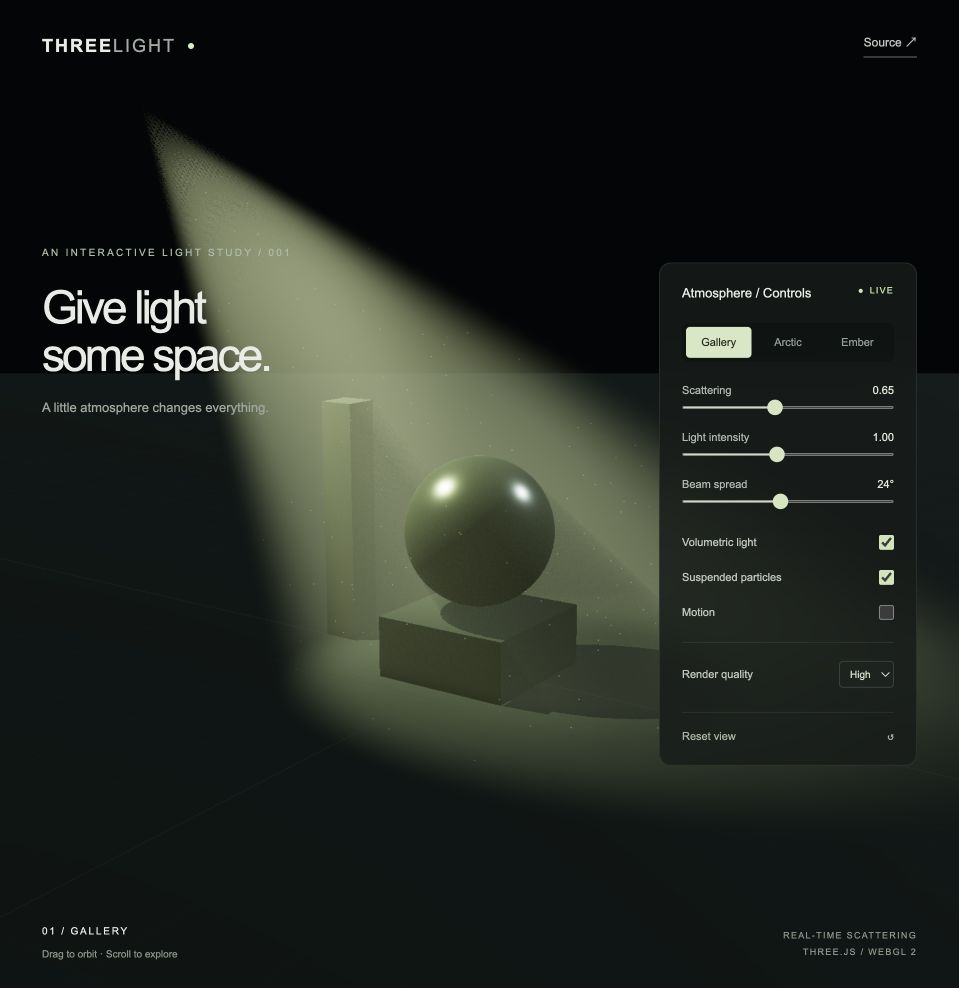
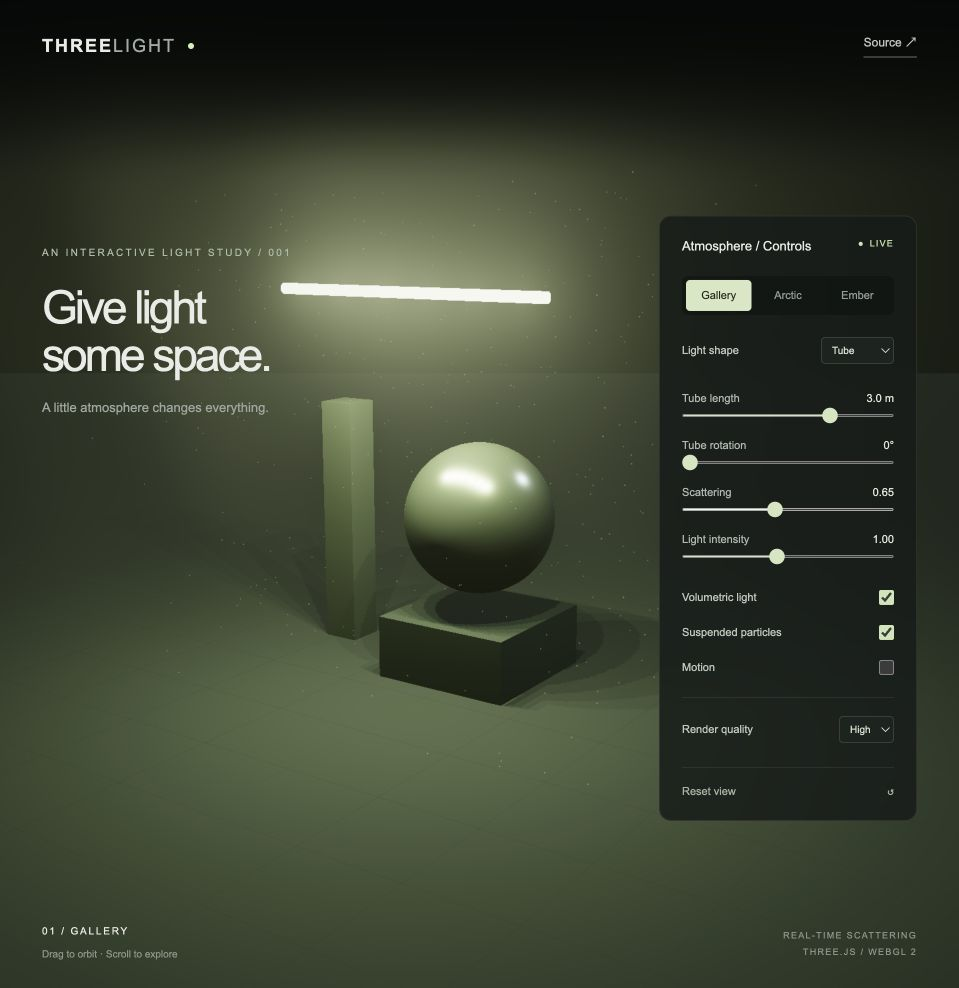
Add adjustable tube emitters with shared surface and volume lighting

diff --git a/src/main.js b/src/main.js
@@ -2,6 +2,12 @@ import * as THREE from "three";
 import { OrbitControls } from "three/addons/controls/OrbitControls.js";
 import { vertexShader, fragmentShader } from "./volume.js";
 import "./style.css";
+import {
+  TUBE_SAMPLES,
+  TUBE_CENTER,
+  sampleTube,
+  emitterGLSL,
+} from "./emitter.js";
 
 const $ = (id) => document.getElementById(id);
 const settings = { density: 0.65, power: 1, spread: 24 };
@@ -100,6 +106,37 @@ function start() {
   spot.shadow.bias = -0.0003;
   spot.shadow.normalBias = 0.025;
   scene.add(spot, spot.target);
+  const tubeLights = Array.from({ length: TUBE_SAMPLES }, () => {
+    const light = new THREE.PointLight(spot.color, 150 / TUBE_SAMPLES, 22, 2);
+    light.castShadow = true;
+    light.shadow.mapSize.set(256, 256);
+    light.shadow.camera.near = 0.1;
+    light.shadow.camera.far = 22;
+    light.shadow.bias = -0.0003;
+    light.shadow.normalBias = 0.025;
+    scene.add(light);
+    return light;
+  });
+  const emitterPositions = tubeLights.map((light) => light.position);
+  const emitterUniforms = {
+    emitterPositions: { value: emitterPositions },
+    tubeMode: { value: true },
+  };
+  const emitterMaterial = new THREE.MeshBasicMaterial({
+    color: spot.color.clone().multiplyScalar(4),
+  });
+  const tubeMesh = new THREE.Mesh(
+    new THREE.CylinderGeometry(0.055, 0.055, 1, 16),
+    emitterMaterial,
+  );
+  tubeMesh.position.fromArray(TUBE_CENTER);
+  scene.add(tubeMesh);
+  const spotMesh = new THREE.Mesh(
+    new THREE.SphereGeometry(0.09, 16, 12),
+    emitterMaterial,
+  );
+  spotMesh.position.copy(spot.position);
+  scene.add(spotMesh);
   const rim = new THREE.DirectionalLight("#c4d4df", 1.7);
   rim.position.set(3, 4, -4);
   scene.add(rim);
@@ -156,6 +193,7 @@ function start() {
     depthWrite: false,
     blending: THREE.AdditiveBlending,
     uniforms: {
+      ...emitterUniforms,
       lightPosition: { value: spot.position },
       lightDirection: { value: new THREE.Vector3() },
       color: { value: spot.color },
@@ -164,7 +202,18 @@ function start() {
       pixelRatio: { value: 1 },
     },
     vertexShader: `uniform float time,pixelRatio; varying vec3 world; void main(){vec3 p=position;p.y=mod(p.y+time*.065,5.);world=(modelMatrix*vec4(p,1.)).xyz;vec4 mv=viewMatrix*vec4(world,1.);gl_Position=projectionMatrix*mv;gl_PointSize=clamp(17./-mv.z,1.,3.)*pixelRatio;}`,
-    fragmentShader: `uniform vec3 lightPosition,lightDirection,color;uniform float coneCos;varying vec3 world;void main(){float radius=length(gl_PointCoord-.5);if(radius>.5)discard;float cone=dot(normalize(world-lightPosition),lightDirection);float a=smoothstep(coneCos,coneCos+.06,cone);gl_FragColor=vec4(color,a*(1.-radius*2.)*.45);}`,
+    fragmentShader: `${emitterGLSL}
+      uniform vec3 color; varying vec3 world;
+      void main(){
+        float radius=length(gl_PointCoord-.5);if(radius>.5)discard;
+        float illumination=0.;
+        for(int i=0;i<6;i++){
+          if(!tubeMode && i>0)break;
+          vec3 delta=world-emitterPosition(i);
+          illumination+=emitterEnvelope(delta)*7./(1.+dot(delta,delta)*.15)*(tubeMode?1./6.:1.);
+        }
+        gl_FragColor=vec4(color,clamp(illumination,0.,1.)*(1.-radius*2.)*.45);
+      }`,
   });
   const particles = new THREE.Points(particleGeometry, particleMaterial);
   scene.add(particles);
@@ -174,6 +223,7 @@ function start() {
   target.depthTexture = new THREE.DepthTexture(1, 1, THREE.UnsignedIntType);
   const direction = spot.target.position.clone().sub(spot.position).normalize();
   const uniforms = {
+    ...emitterUniforms,
     sceneColor: { value: target.texture },
     sceneDepth: { value: target.depthTexture },
     inverseProjection: { value: camera.projectionMatrixInverse },
@@ -202,6 +252,31 @@ function start() {
   const screen = new THREE.Scene();
   screen.add(new THREE.Mesh(new THREE.PlaneGeometry(2, 2), composite));
   const screenCamera = new THREE.Camera();
+  function syncEmitter() {
+    const tube = $("shape").value === "tube";
+    const length = Number($("length").value);
+    const angle = Number($("angle").value);
+    emitterUniforms.tubeMode.value = tube;
+    $("tube-controls").hidden = !tube;
+    $("spot-controls").hidden = tube;
+    $("length-value").textContent = length.toFixed(1) + " m";
+    $("angle-value").textContent = angle + "°";
+    spot.visible = !tube;
+    spotMesh.visible = !tube;
+    tubeMesh.visible = tube;
+    tubeMesh.scale.y = length;
+    tubeMesh.rotation.z = THREE.MathUtils.degToRad(angle) - Math.PI / 2;
+    emitterMaterial.color.copy(spot.color).multiplyScalar(4);
+    const samples = sampleTube(length, angle);
+    tubeLights.forEach((light, i) => {
+      light.visible = tube;
+      light.position.fromArray(samples[i]);
+      light.intensity = (150 * settings.power) / TUBE_SAMPLES;
+      light.color.copy(spot.color);
+    });
+  }
+  for (const key of ["shape", "length", "angle"])
+    $(key).addEventListener("input", syncEmitter);
   function sync() {
     for (const key of ["density", "power", "spread"]) {
       settings[key] = Number($(key).value);
@@ -214,6 +289,7 @@ function start() {
     uniforms.power.value = settings.power;
     uniforms.coneCos.value = Math.cos(spot.angle);
     particleMaterial.uniforms.coneCos.value = uniforms.coneCos.value;
+    syncEmitter();
   }
   for (const key of ["density", "power", "spread"])
     $(key).addEventListener("input", sync);

diff --git a/src/volume.js b/src/volume.js
@@ -1,5 +1,7 @@
+import { emitterGLSL } from "./emitter.js";
+
 // Independently authored fullscreen single-scattering approximation.
-// Depth terminates the view ray; analytic primitives occlude the spotlight.
+// Depth terminates the view ray; analytic primitives occlude each emitter sample.
 export const vertexShader = /* glsl */ `
 varying vec2 vUv;
 void main(){vUv=uv;gl_Position=vec4(position.xy,0.,1.);}
@@ -9,9 +11,10 @@ precision highp float;
 varying vec2 vUv;
 uniform sampler2D sceneColor, sceneDepth;
 uniform mat4 inverseProjection, cameraWorld;
-uniform vec3 eye, lightPosition, lightDirection, lightColor;
+uniform vec3 eye, lightColor;
+${emitterGLSL}
 uniform vec3 sphereCenter;
-uniform float sphereRadius, density, power, coneCos, time;
+uniform float sphereRadius, density, power, time;
 uniform int steps;
 uniform bool enabled;
 float hash(vec2 p){return fract(sin(dot(p,vec2(127.1,311.7)))*43758.5453);}
@@ -23,8 +26,8 @@ bool boxHit(vec3 origin,vec3 direction,vec3 lo,vec3 hi,float limit){
  float leave=min(min(farT.x,farT.y),farT.z);
  return leave>max(entry,0.) && entry<limit;
 }
-float visibleLight(vec3 p){
- vec3 delta=lightPosition-p;float limit=length(delta);vec3 dir=delta/limit;
+float visibleLight(vec3 p,vec3 source){
+ vec3 delta=source-p;float limit=length(delta);vec3 dir=delta/limit;
  vec3 offset=p-sphereCenter;float b=dot(offset,dir);
  float disc=b*b-dot(offset,offset)+sphereRadius*sphereRadius;
  if(disc>0.){float hit=-b-sqrt(disc);if(hit>0.002 && hit<limit)return 0.;}
@@ -44,16 +47,26 @@ void main(){
  for(int i=0;i<56;i++){
   if(i>=steps || !enabled)break;
   vec3 p=eye+ray*(float(i)+jitter)*stride;
-  vec3 fromLight=p-lightPosition;float d=length(fromLight);
-  float cone=dot(fromLight/max(d,.001),lightDirection);
-  float envelope=smoothstep(coneCos,coneCos+.055,cone);
   float bounds=smoothstep(0.,.22,p.y)*(1.-smoothstep(5.,6.,p.y));
-  if(envelope*bounds<.001)continue;
+  if(bounds<.001)continue;
   float mist=.83+.17*sin(p.x*2.1+time*.15)*sin(p.z*2.7-p.y+time*.12);
-  float amount=density*envelope*bounds*mist*.13;
-  float phase=.65+1.2*pow(max(dot(ray,normalize(fromLight)),0.),4.);
-  sum+=transmittance*lightColor*power*amount*stride*visibleLight(p)*phase*7./(1.+d*d*.15);
-  transmittance*=exp(-amount*stride*.32);
+  float amount=density*bounds*mist*.13;
+  float illumination=0.;float envelopeTotal=0.;
+  // Total power stays fixed as tube length changes. Each sample carries 1/6.
+  for(int sourceIndex=0;sourceIndex<6;sourceIndex++){
+   if(!tubeMode && sourceIndex>0)break;
+   vec3 source=emitterPosition(sourceIndex);
+   vec3 fromLight=p-source;float d=max(length(fromLight),.001);
+   float envelope=emitterEnvelope(fromLight);
+   float weight=tubeMode ? 1./6. : 1.;
+   envelopeTotal+=envelope*weight;
+   if(envelope<.001)continue;
+   float phase=.65+1.2*pow(max(dot(ray,fromLight/d),0.),4.);
+   float falloff=tubeMode ? 1.2/(.08+d*d) : 7./(1.+d*d*.15);
+   illumination+=weight*envelope*visibleLight(p,source)*phase*falloff;
+  }
+  sum+=transmittance*lightColor*power*amount*stride*illumination;
+  transmittance*=exp(-amount*envelopeTotal*stride*.32);
  }
  gl_FragColor=vec4(base*transmittance+sum,1.);
  #include <tonemapping_fragment>

diff --git a/index.html b/index.html
@@ -41,6 +41,30 @@
           ><button data-preset="arctic" aria-pressed="false">Arctic</button
           ><button data-preset="ember" aria-pressed="false">Ember</button>
         </div>
+        <div class="quality-row shape-row">
+          <label for="shape">Light shape</label>
+          <select id="shape">
+            <option value="tube" selected>Tube</option>
+            <option value="spot">Spotlight</option>
+          </select>
+        </div>
+        <div id="tube-controls">
+          <label class="range-label" for="length"
+            >Tube length <output id="length-value">3.0 m</output></label
+          >
+          <input
+            id="length"
+            type="range"
+            min="0.5"
+            max="4"
+            step="0.1"
+            value="3"
+          />
+          <label class="range-label" for="angle"
+            >Tube rotation <output id="angle-value">0°</output></label
+          >
+          <input id="angle" type="range" min="0" max="180" step="1" value="0" />
+        </div>
         <label class="range-label" for="density"
           >Scattering <output id="density-value">0.65</output></label
         ><input
@@ -61,16 +85,18 @@
           step="0.01"
           value="1"
         />
-        <label class="range-label" for="spread"
-          >Beam spread <output id="spread-value">24°</output></label
-        ><input
-          id="spread"
-          type="range"
-          min="12"
-          max="38"
-          step="1"
-          value="24"
-        />
+        <div id="spot-controls" hidden>
+          <label class="range-label" for="spread"
+            >Beam spread <output id="spread-value">24°</output></label
+          ><input
+            id="spread"
+            type="range"
+            min="12"
+            max="38"
+            step="1"
+            value="24"
+          />
+        </div>
         <div class="toggle-row">
           <label for="volume">Volumetric light</label
           ><input id="volume" type="checkbox" checked />

diff --git a/src/emitter.js b/src/emitter.js
@@ -1,0 +1,29 @@
+// Midpoint quadrature for a finite line emitter. The same samples drive
+// surface lighting, atmospheric scattering, and particle illumination.
+export const TUBE_SAMPLES = 6;
+export const TUBE_CENTER = [0, 4, 1.2];
+
+export function sampleTube(length, angleDegrees) {
+  const angle = (angleDegrees * Math.PI) / 180;
+  const axis = [Math.cos(angle), Math.sin(angle), 0];
+  return Array.from({ length: TUBE_SAMPLES }, (_, i) => {
+    const offset = ((i + 0.5) / TUBE_SAMPLES - 0.5) * length;
+    return TUBE_CENTER.map(
+      (value, component) => value + axis[component] * offset,
+    );
+  });
+}
+
+export const emitterGLSL = /* glsl */ `
+uniform vec3 emitterPositions[6];
+uniform bool tubeMode;
+uniform vec3 lightPosition, lightDirection;
+uniform float coneCos;
+vec3 emitterPosition(int index) {
+ return tubeMode ? emitterPositions[index] : lightPosition;
+}
+float emitterEnvelope(vec3 fromLight) {
+ if(tubeMode) return 1.;
+ return smoothstep(coneCos,coneCos+.055,dot(normalize(fromLight),lightDirection));
+}
+`;

diff --git a/src/style.css b/src/style.css
@@ -357,3 +357,21 @@ summary::-webkit-details-marker {
     pointer-events: none;
   }
 }
+
+.shape-row {
+  margin-top: 0;
+  padding-top: 0;
+  border-top: 0;
+}
+.panel {
+  max-height: calc(100dvh - 160px);
+  overflow-y: auto;
+}
+[hidden] {
+  display: none !important;
+}
+@media (max-width: 760px) {
+  .panel {
+    max-height: 55dvh;
+  }
+}

diff --git a/README.md b/README.md
@@ -8,6 +8,7 @@
 
 ## Explore
 
+- Tube and spotlight emitters, with a visible light source. Tube length (0.5–4 m) and rotation (0–180°) change the source geometry and illumination together.
 - Three atmosphere presets: Gallery, Arctic, and Ember.
 - Live scattering, intensity, and beam spread controls.
 - Toggle volumetric light and particles to compare the effect.
@@ -36,18 +37,19 @@ npm run preview
 
 ## How it works
 
-1. Three.js draws the procedural scene into a half-float color target with a depth texture. A standard spotlight illuminates the surfaces and casts their shadows.
+1. Three.js draws the procedural scene into a half-float color target with a depth texture. A spotlight or six shadow-casting point samples along a tube illuminate the surfaces. The tube is an omnidirectional line emitter; beam spread applies only to spotlight mode.
 2. A fullscreen shader reconstructs a world-space view ray from the camera matrices and the scene depth.
-3. The shader samples atmospheric scattering along that ray, stopping at the visible surface. Spotlight cone falloff, distance attenuation, and a slowly varying density field shape the beam.
-4. Ray/sphere and ray/box intersections approximate light occlusion for the three scene objects. The floating sphere position is shared with the shader.
+3. The shader samples atmospheric scattering along that ray, stopping at the visible surface. Spotlight cone falloff or finite-line emitter sampling, distance attenuation, and a slowly varying density field shape the illumination.
+4. Ray/sphere and ray/box intersections approximate visibility toward each emitter sample for the three scene objects. The floating sphere position is shared with the shader.
 5. The accumulated light is composited with the scene. Shader-animated point sprites add suspended dust.
 
-This is a visual approximation, not a physically accurate participating-media renderer. The volume occlusion is specific to the procedural objects: adding arbitrary meshes requires extending the occlusion representation. Particles are depth-tested against visible geometry but do not sample spotlight shadows. There is no temporal denoising or multiple scattering.
+This is a visual approximation, not a physically accurate participating-media renderer. The volume occlusion is specific to the procedural objects: adding arbitrary meshes requires extending the occlusion representation. Particles are depth-tested against visible geometry but do not sample spotlight shadows. Tube lighting uses six midpoint samples shared between surfaces, atmosphere, and particle illumination. Total light power stays fixed as length changes. This finite sampling can produce stepped shadows and discrete highlights, especially for long tubes or nearby surfaces; it is not an exact continuous area-light solution. Tube radius is fixed, and position or arbitrary mesh-shaped emitters are not yet configurable. There is no temporal denoising or multiple scattering.
 
 ## Project structure
 
 ```text
 src/main.js      Scene, interaction, controls, and rendering lifecycle
+src/emitter.js   Shared finite-line sample layout and emitter shader helpers
 src/volume.js    Original volumetric scattering and occlusion shaders
 src/style.css    Responsive interface, using system fonts
 ```

diff --git a/docs/VALIDATION.md b/docs/VALIDATION.md
@@ -13,3 +13,17 @@ Checked on 2026-10-04:
 - 390 × 844 emulated viewport: controls start collapsed, can expand, and presets work; low quality is selected.
 
 Limitations: no physical mobile-device, cross-browser, GPU performance, or simulated context-loss validation has been performed. The renderer uses analytic occlusion for this scene only. This is an initial experimental release.
+
+# Tube emitter update
+
+Checked on 2026-10-04:
+
+- Production build passed after adding the finite-line emitter.
+- Tube length endpoints (0.5 m and 4 m), 90° rotation, and preset changes respond in the browser.
+- Vertical and horizontal tubes produce visibly different illumination and shadows.
+- Switching to Spotlight restores the cone and its beam-spread control; tube-only controls are hidden.
+- Turning volumetric light off preserves tube geometry and surface illumination.
+- 390 × 844 viewport: tube controls work, panel scrolls, and low quality is selected.
+- No shader errors or browser warnings were captured during the local rendering checks.
+
+Tube emission is approximated by six samples. Shadow banding and discrete highlights are known limitations; no claim of continuous area-light accuracy or physical mobile performance is made.
